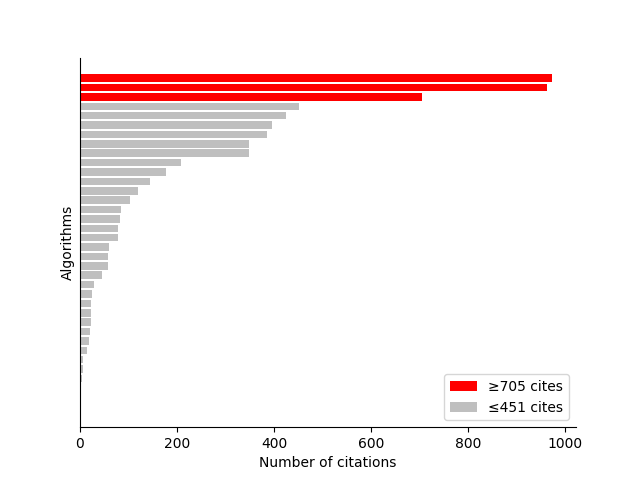
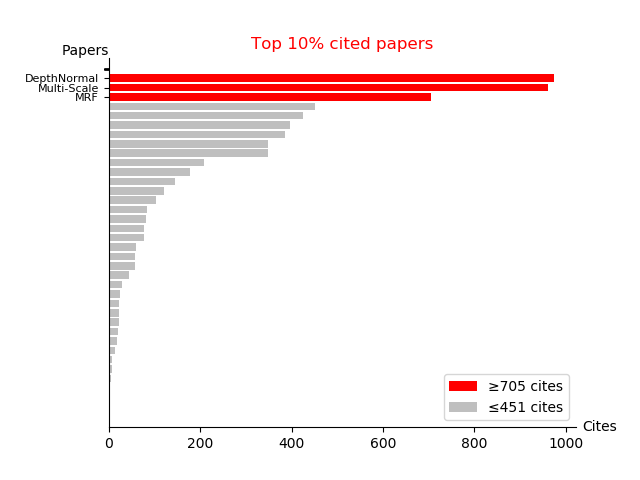
changed chart type

diff --git a/main.py b/main.py
@@ -71,24 +71,28 @@ class GraphAnalysis:
         # Puts x ticks only for red bars
         red_bar_x_ticks = [x[0] if counter > lower_percentile_index else " " for counter, x in enumerate(ordered_list)]
         plt.yticks(red_bar_x_ticks)
-        ax.tick_params(axis='y', labelsize=10)        
-
-        ax.get_yaxis().set_ticks([])  # Hides y labels
+        ax.tick_params(axis='y', labelsize=8)
+        # Hides y labels
+        # ax.get_yaxis().set_ticks([])
 
         # Gets rid of the border around the chart
         ax.spines['top'].set_visible(False)
         ax.spines['right'].set_visible(False)
 
         # Puts labeling on the image
-        plt.xlabel('Number of citations')
-        plt.ylabel('Algorithms')
+        plt.xlabel('Cites')
+        plt.ylabel('Papers', rotation=0)
+        ax.xaxis.set_label_coords(1.05, 0.02)
+        ax.yaxis.set_label_coords(-0.05, 1.0)
+
         # plt.title(content_list[0][2])
+        plt.title('Top 10% cited papers', color='red')
         plt.legend((red, gray),
                    ('≥{} cites'.format(most_cited_algorithms[0][2]), '≤{} cites'.format(last_gray_bar_cites)),
                    loc=4)
 
         # Leaves a little more space to the left so that the label name can appear entirely
-        #plt.gcf().subplots_adjust(left=0.17)
+        plt.gcf().subplots_adjust(left=0.17)
 
         plt.savefig(figure_name)
         plt.close()
